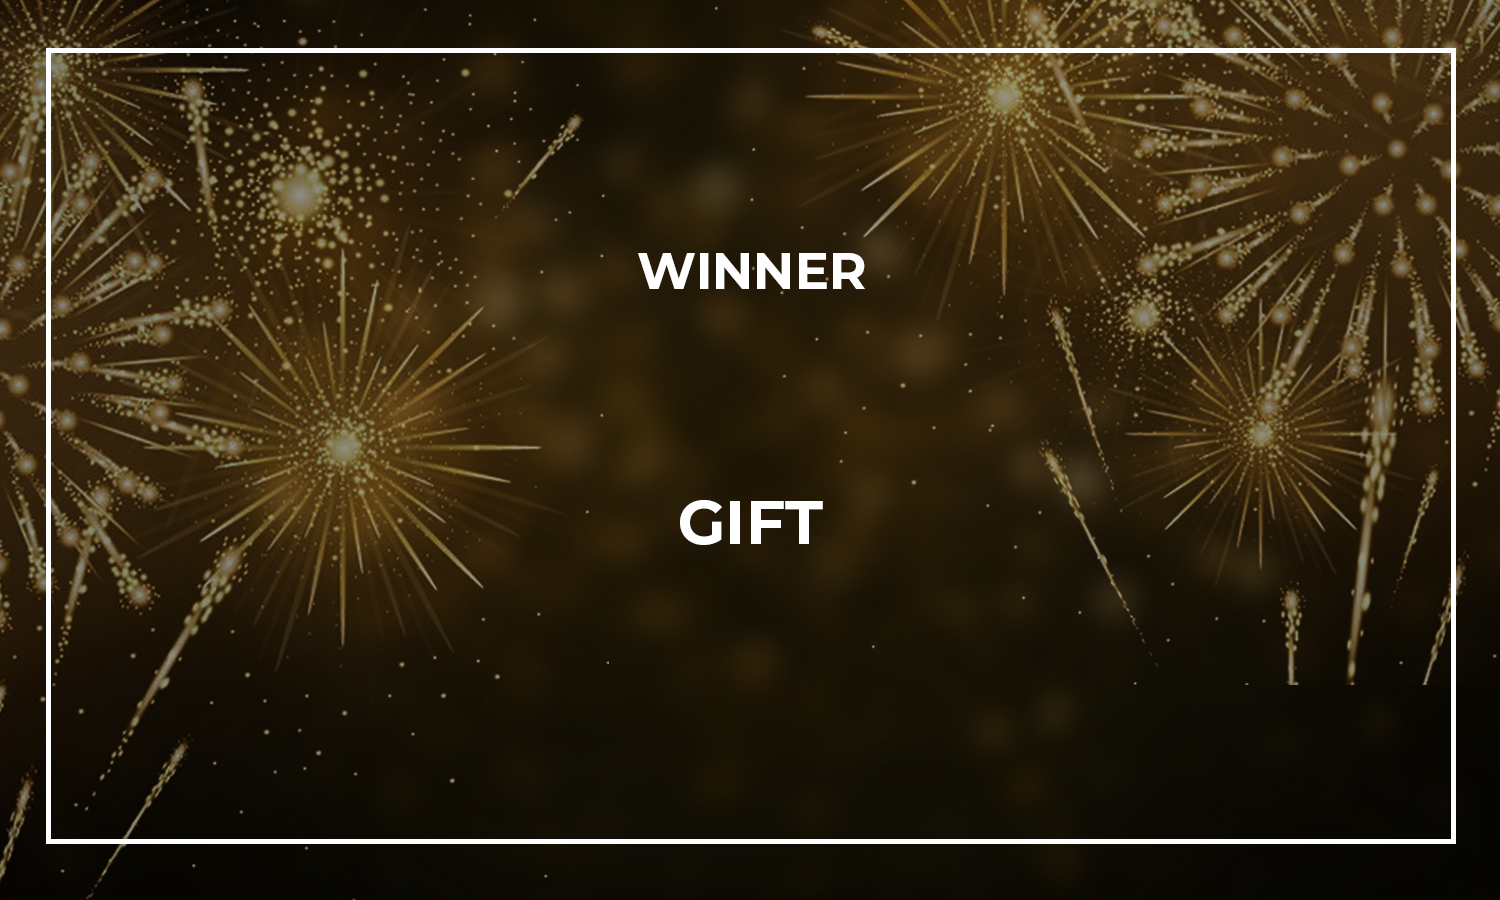
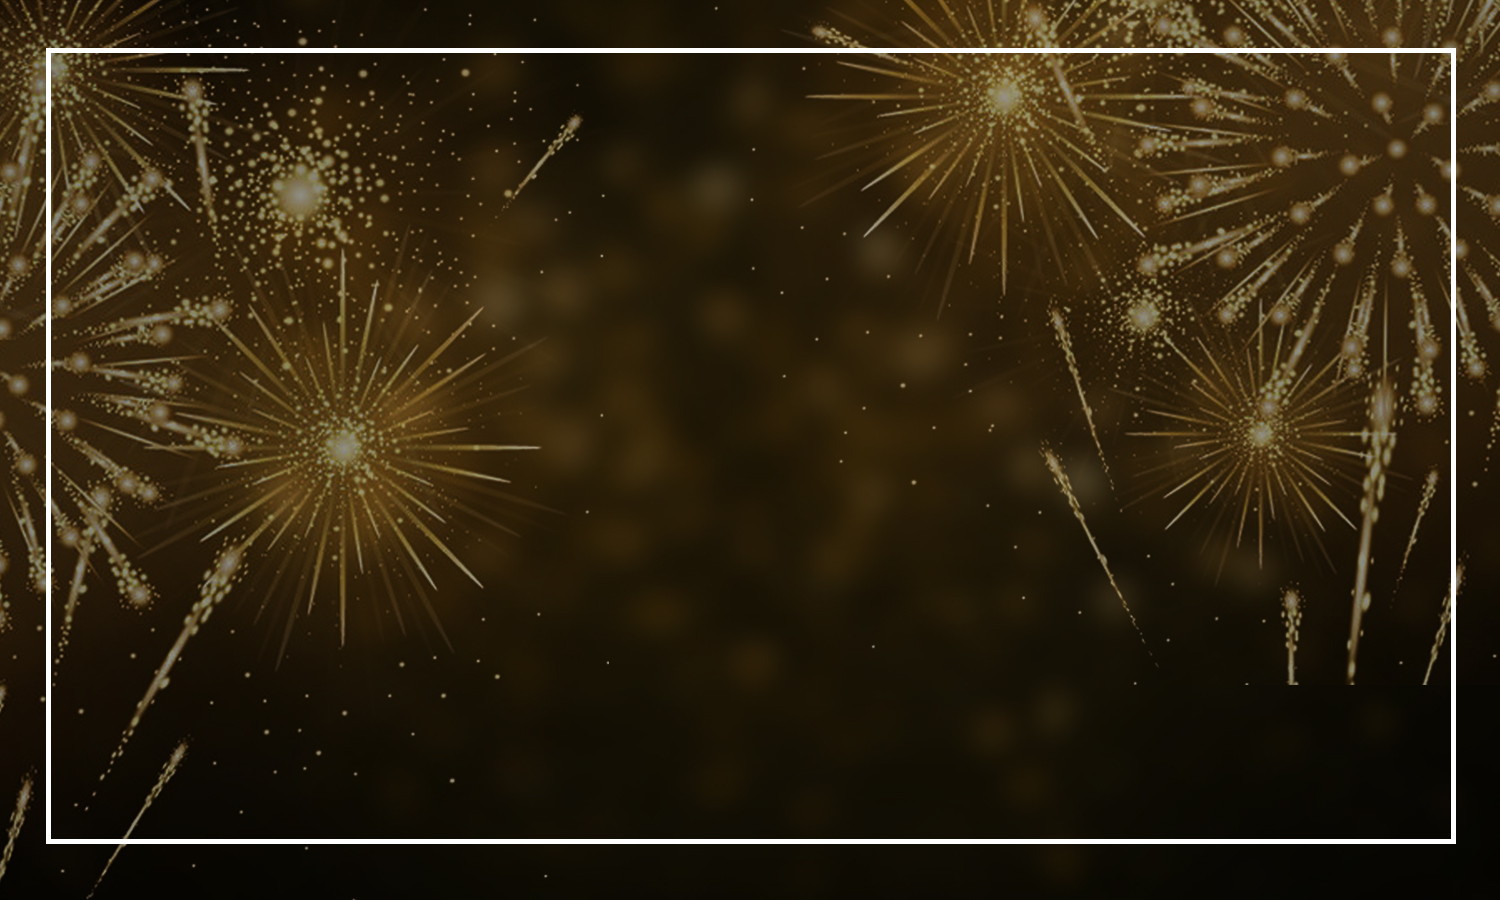
working 80%

Changed region(s): [[0.4293, 0.28, 0.5827, 0.3422], [0.4293, 0.56, 0.552, 0.6222]]

diff --git a/src/components/Ballot.vue b/src/components/Ballot.vue
@@ -2,31 +2,23 @@
   <section>
     <div class="wrapper">
       <div id="names" class="names" v-if="showName">{{ names[0] }}</div>
-      <!-- <div class="winner">{{ winner }}</div> -->
     </div>
-    <div class="wrapper2">
-      <div class="names" id="gifts" v-if="showName">{{ namesGift }}</div>
-      <!-- <div class="winner">{{ winnerGift }}</div> -->
+    <div class="wrapper wrapper2">
+      <div id="gifts" class="names" v-if="showName">{{ namesGift }}</div>
     </div>
 
-    <v-dialog v-model="dialog" width="500" class="winner">
-      <v-card>
-        <v-card-title class="headline">
-          Use Google's location service?
-        </v-card-title>
-        <v-card-text {{winner}} {{winnerGift}}
-          >Let Google help apps determine location. This means sending anonymous
-          location data to Google, even when no apps are running.</v-card-text
-        >
-        <v-card-actions>
-          <v-spacer></v-spacer>
-          <v-btn color="green darken-1" text @click="dialog = false">
-            Disagree
-          </v-btn>
-          <v-btn color="green darken-1" text @click="dialog = false">
-            Agree
-          </v-btn>
-        </v-card-actions>
+    <v-dialog v-model="dialog" width="600">
+      <v-card class="winner" height="600">
+        <v-container fill-height>
+          <v-row align="center" >
+            <v-col cols="12">
+              <p class="infos">Winner</p>
+              <p class="text">{{ winner }}</p>
+              <p class="infos">Gift</p>
+              <p class="text">{{ winnerGift }}</p>
+            </v-col>
+          </v-row>
+        </v-container>
       </v-card>
     </v-dialog>
   </section>
@@ -44,8 +36,8 @@ export default {
       dialog: false,
       names: [],
       namesGift: null,
-      winner: null,
-      winnerGift: null,
+      winner: "Aliasgher Ahmedabawala",
+      winnerGift: "Iphone Airpods",
       showName: true,
       entrants: [],
       gifts: [
@@ -78,21 +70,21 @@ export default {
         that.dialog = true;
         let thiss = that;
         setTimeout(() => {
+          console.log(thiss.winner, thiss.winnerGift)
           thiss.resetCounter();
+          thiss.dialog = false;
         }, 4000);
       }, 3000);
     },
 
     resetCounter() {
       this.showName = true;
-      this.names = null;
+      this.names = [];
       this.namesGift = null;
       let index = this.entrants.indexOf(this.winner);
       if (index !== -1) {
         this.entrants.splice(index, 1);
       }
-      this.winner = null;
-      this.winnerGift = null;
       this.rollClick();
     },
 
@@ -132,17 +124,12 @@ export default {
   width: 21%;
   position: fixed;
   text-align: center;
-  top: 60.2%;
+  top: 54%;
   left: 38.5%;
   transform: translate(-50%, -50%);
 }
 .wrapper2 {
-  width: 21%;
-  position: fixed;
-  text-align: center;
-  top: 60.2%;
-  left: 61%;
-  transform: translate(-50%, -50%);
+  left: 61% !important;
 }
 #roll {
   display: inline-block;
@@ -158,20 +145,21 @@ export default {
   border: none;
   outline: none;
   transition: 400ms ease-in-out;
-  font-size: 2.5rem;
+  font-size: 20px;
 }
 .winner {
-  display: inline-block;
-  font-size: 5rem;
-  color: #fbcf26;
-  background: none;
-  border: none;
-  outline: none;
-  transition: 400ms ease-in-out;
   background-image: url("../assets/winner.jpg");
-  height: 100%;
   background-position: center;
-  background-repeat: no-repeat;
   background-size: cover;
+}
+.text {
+  font-size: 3.2rem;
+  color: #fed630;
+  text-align: center;
+}
+.infos {
+  font-size: 2rem;
+  color: white;
+  text-align: center;
 }
 </style>
